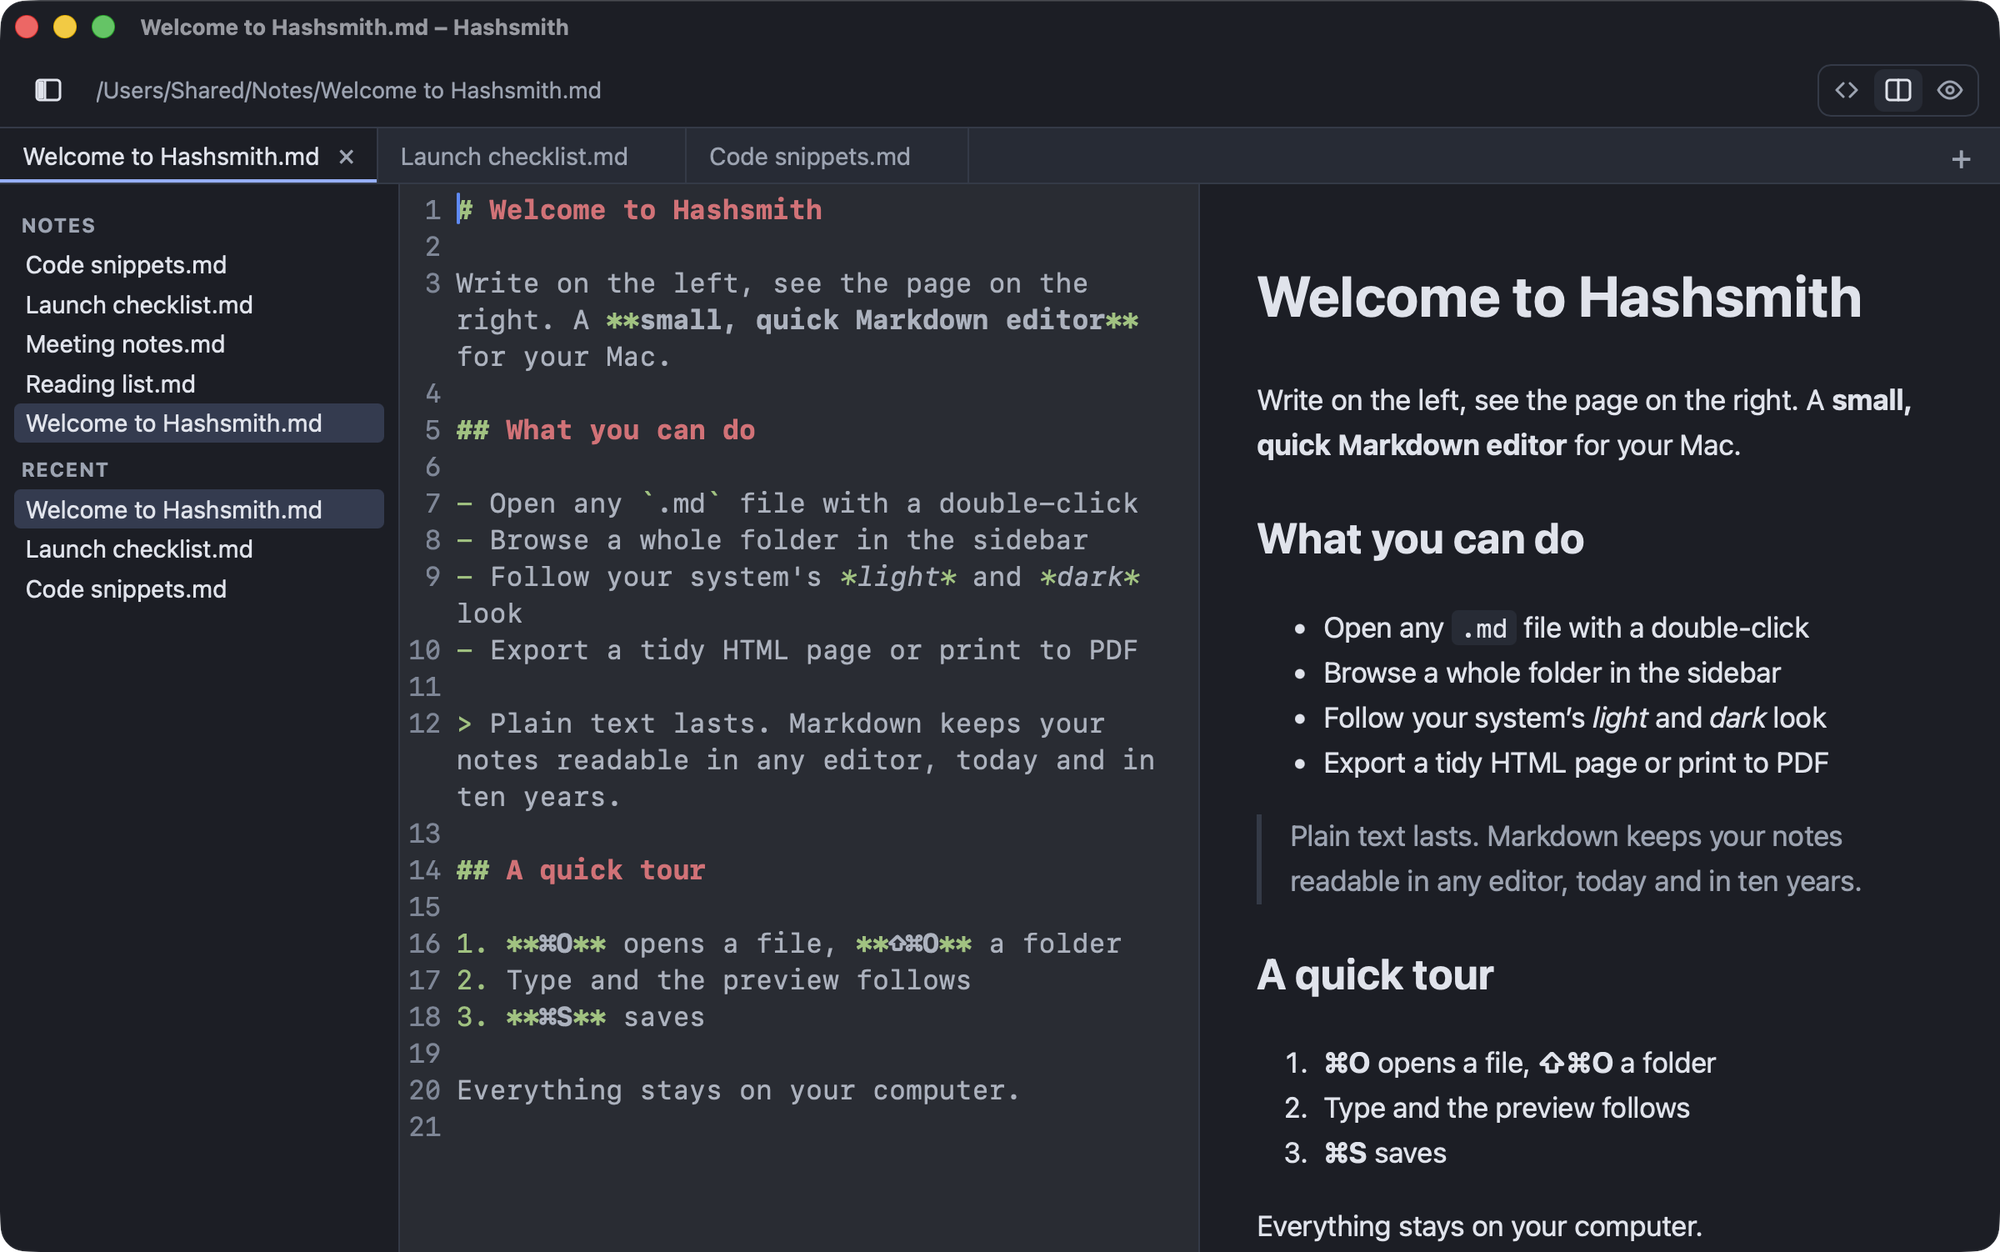
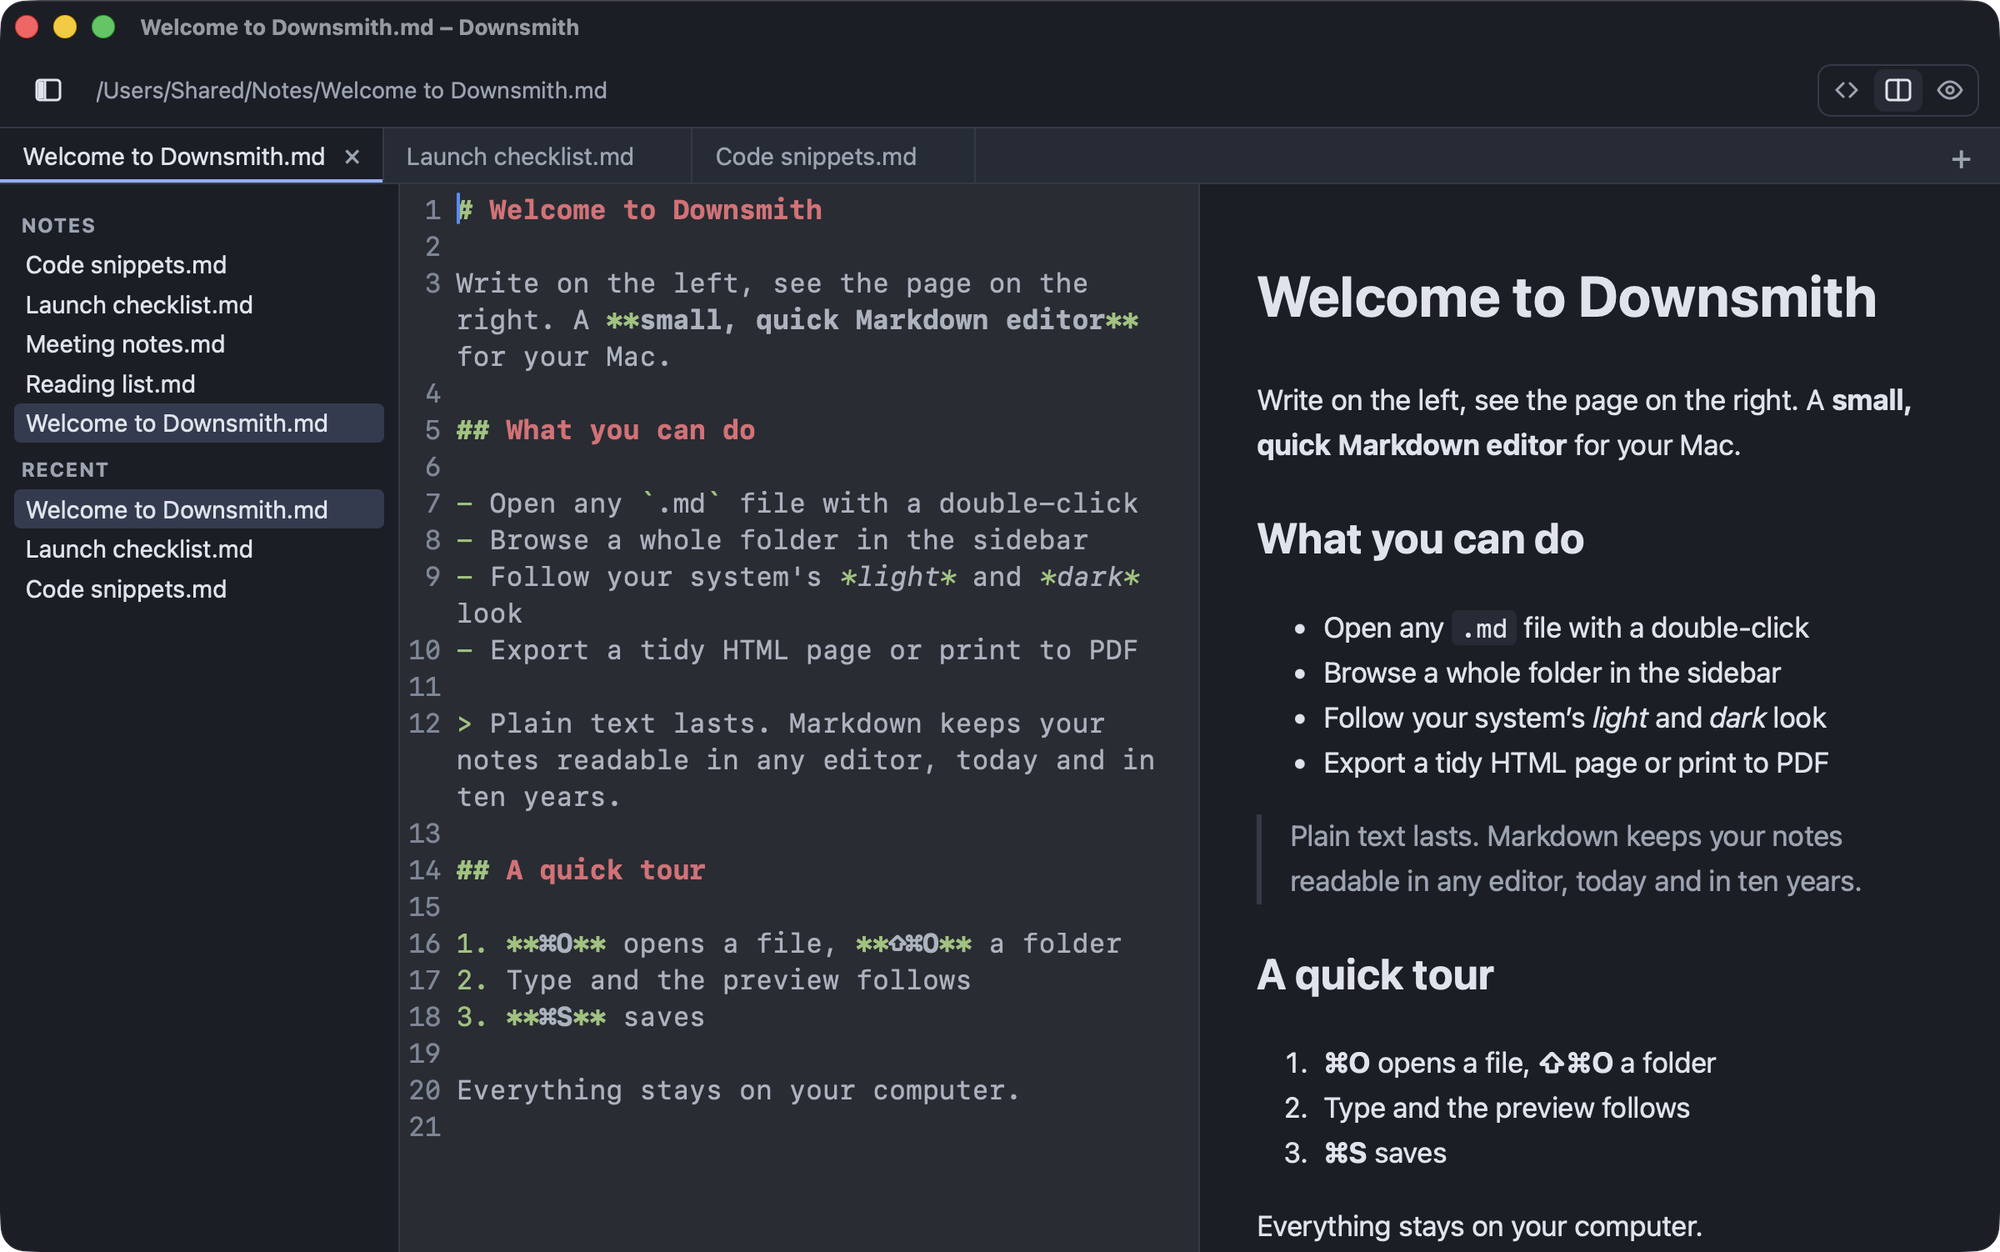
docs: update README

diff --git a/README.md b/README.md
@@ -1,8 +1,8 @@
 <p align="center">
-  <img src="img/icon.svg" width="112" height="112" alt="Hashsmith anvil icon">
+  <img src="img/icon.svg" width="112" height="112" alt="Downsmith anvil icon">
 </p>
 
-<h1 align="center">Hashsmith</h1>
+<h1 align="center">Downsmith</h1>
 
 <p align="center">
   <strong>Shape your Markdown.</strong><br>
@@ -12,9 +12,9 @@
 <p align="center">
   <a href="../../releases/latest"><b>⬇ Download the latest release</b></a>
   &nbsp;·&nbsp;
-  <a href="https://hashsmith.dev">Website</a>
+  <a href="https://downsmith.dev">Website</a>
   &nbsp;·&nbsp;
-  <a href="https://hashsmith.dev/de/">Deutsch</a>
+  <a href="https://downsmith.dev/de/">Deutsch</a>
 </p>
 
 <p align="center">
@@ -26,15 +26,15 @@
 <p align="center">
   <picture>
     <source media="(prefers-color-scheme: dark)" srcset="img/app-dark.png">
-    <img src="img/app-light.png" alt="Hashsmith window: tabs on top, a folder sidebar, the Markdown source in the middle and the rendered page on the right" width="860">
+    <img src="img/app-light.png" alt="Downsmith window: tabs on top, a folder sidebar, the Markdown source in the middle and the rendered page on the right" width="860">
   </picture>
 </p>
 
-## Why Hashsmith
+## Why Downsmith
 
 - **Live preview.** Source on the left, rendered page on the right. Tables, task lists and code blocks with syntax highlighting.
 - **Tabs.** Open several files at once, each with its own undo history. Your tabs come back at the next start, and closing with unsaved changes asks Save, Don't Save or Cancel.
-- **Your view.** Show only the source, only the preview or both side by side. Hide the sidebar and drag the dividers to resize the columns. Hashsmith remembers your layout.
+- **Your view.** Show only the source, only the preview or both side by side. Hide the sidebar and drag the dividers to resize the columns. Downsmith remembers your layout.
 - **Folders and recent files.** Open a folder, browse its Markdown files in a sidebar and jump back to what you edited last.
 - **Native.** The real menu bar with the shortcuts you know, in English or German. It uses the system web view instead of shipping a browser, so the macOS app is about 10 MB.
 - **Light and dark.** Editor, preview and export follow your system appearance.
@@ -63,7 +63,7 @@
 Grab the file for your system from the **[latest release](../../releases/latest)**.
 
 ### macOS (13 Ventura or later, Apple silicon and Intel)
-1. Download the `.dmg`, open it and drag **Hashsmith** onto *Applications*.
+1. Download the `.dmg`, open it and drag **Downsmith** onto *Applications*.
 2. Start it. The app is signed and notarized by Apple, so there is no Gatekeeper warning.
 
 A Mac App Store version is on its way.
@@ -71,11 +71,11 @@ A Mac App Store version is on its way.
 ### Linux (64-bit)
 | Package | Install |
 |---|---|
-| `.AppImage` | `chmod +x Hashsmith_*.AppImage && ./Hashsmith_*.AppImage` |
-| `.deb` (Debian, Ubuntu) | `sudo apt install ./Hashsmith_*_amd64.deb` |
-| `.rpm` (Fedora, openSUSE) | `sudo dnf install ./Hashsmith-*.rpm` |
+| `.AppImage` | `chmod +x Downsmith_*.AppImage && ./Downsmith_*.AppImage` |
+| `.deb` (Debian, Ubuntu) | `sudo apt install ./Downsmith_*_amd64.deb` |
+| `.rpm` (Fedora, openSUSE) | `sudo dnf install ./Downsmith-*.rpm` |
 
-The packages need WebKitGTK 4.1 (`libwebkit2gtk-4.1`). The Linux builds are new and have seen less testing than the macOS app. If something does not work, please [open an issue](../../issues) or write to <contact@hashsmith.dev>.
+The packages need WebKitGTK 4.1 (`libwebkit2gtk-4.1`). The Linux builds are new and have seen less testing than the macOS app. If something does not work, please [open an issue](../../issues) or write to <contact@downsmith.dev>.
 
 ## Keyboard shortcuts
 
@@ -95,8 +95,8 @@ The packages need WebKitGTK 4.1 (`libwebkit2gtk-4.1`). The Linux builds are new 
 
 ## Support
 
-Hashsmith is free and always will be. If it saves you time, a small donation helps me keep building it: **[github.com/sponsors/alexelmi](https://github.com/sponsors/alexelmi)**.
+Downsmith is free and always will be. If it saves you time, a small donation helps me keep building it: **[github.com/sponsors/alexelmi](https://github.com/sponsors/alexelmi)**.
 
 ## About this repository
 
-This repository only hosts the download files (see [Releases](../../releases)) and this page. Hashsmith's source code is in a private repository. Questions, bug reports and ideas are welcome in the [issues](../../issues) or at <contact@hashsmith.dev>.
+This repository only hosts the download files (see [Releases](../../releases)) and this page. Downsmith's source code is in a private repository. Questions, bug reports and ideas are welcome in the [issues](../../issues) or at <contact@downsmith.dev>.
